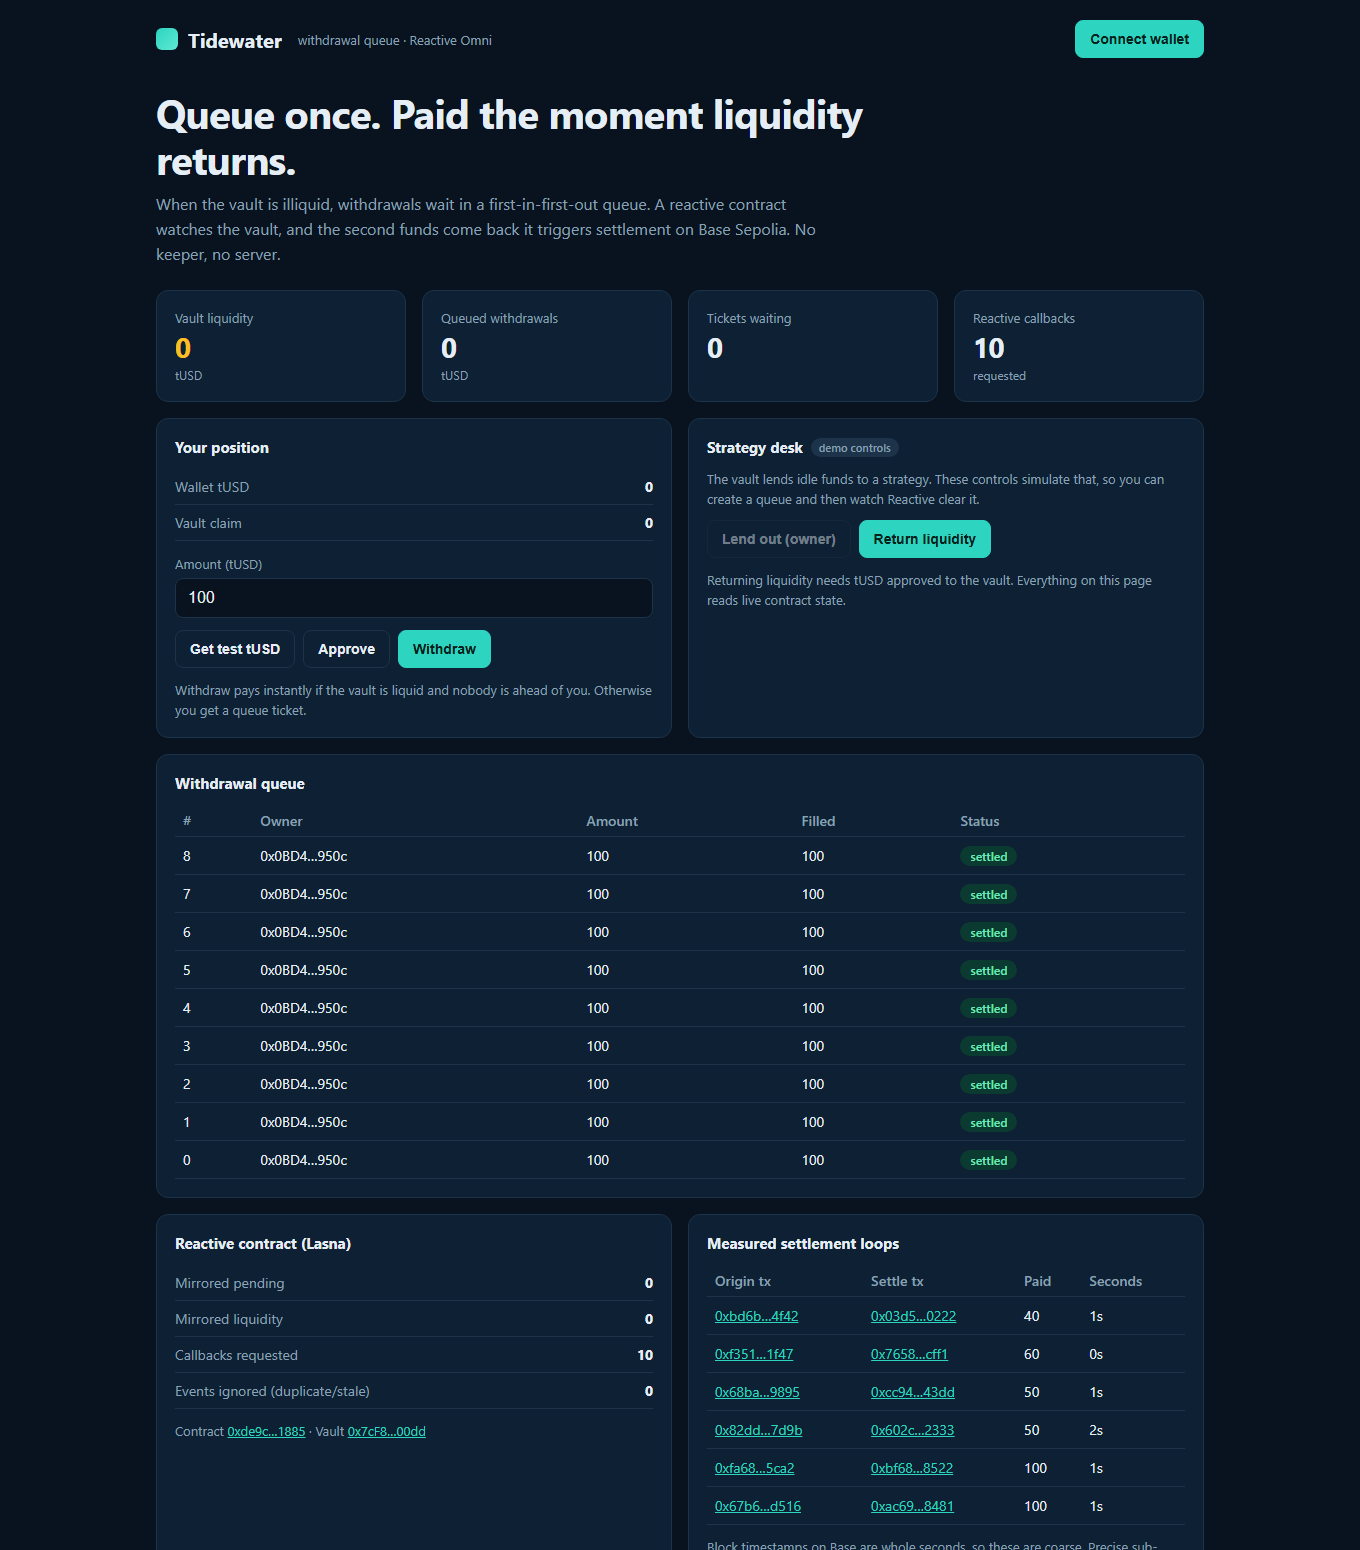
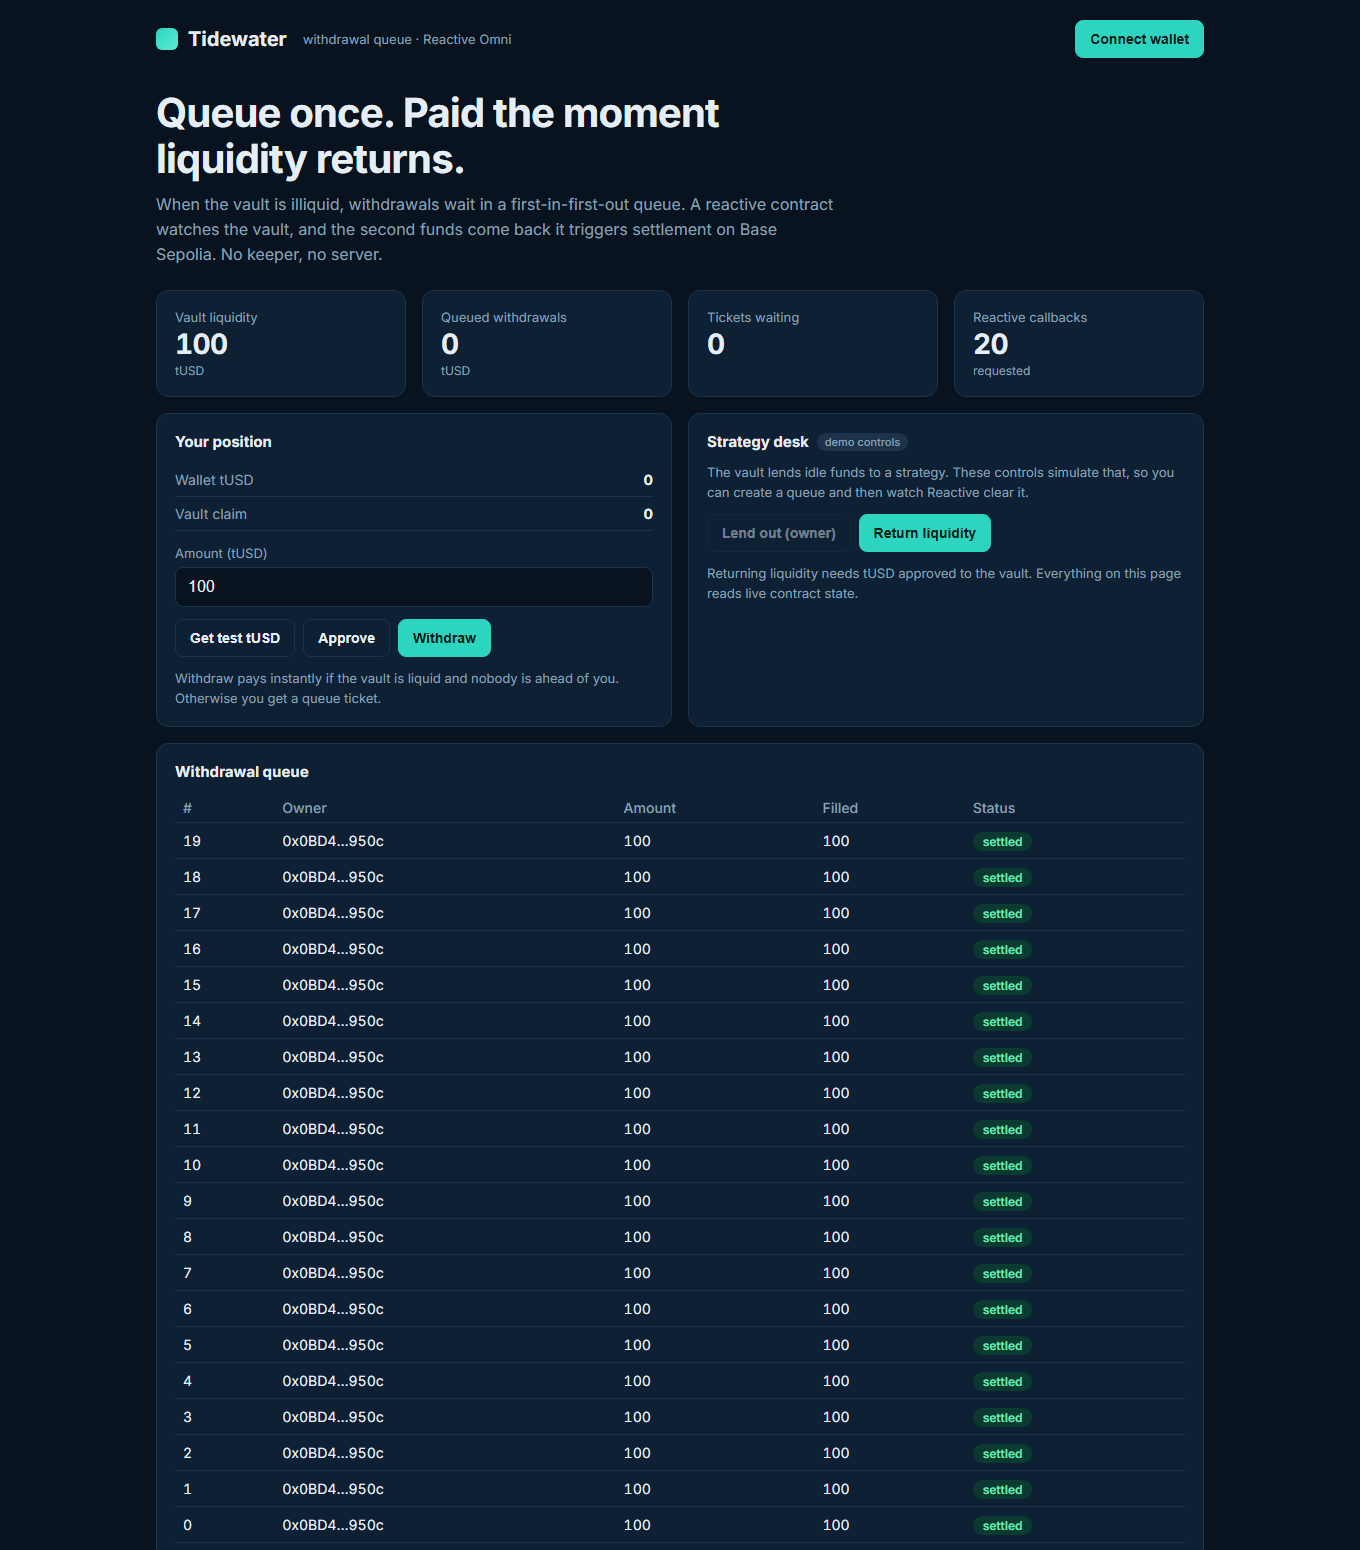
README: v2 demo video link; refresh dashboard screenshots with v2 data

diff --git a/README.md b/README.md
@@ -5,7 +5,7 @@ Built on [Reactive Omni](https://dev.reactive.network) for the Reactive Omni Bui
 
 ![Tidewater dashboard](docs/screenshots/01-dashboard-desktop.png)
 
-**Demo video:** being re-recorded for the v2 contracts; the link will be added here.
+**Demo video (2:47):** [https://youtu.be/Unu0CWuicEc](https://youtu.be/Unu0CWuicEc). Recorded from the live app against the v2 contracts during real testnet transactions. Narration uses a synthetic voice.
 
 ## The problem
 
